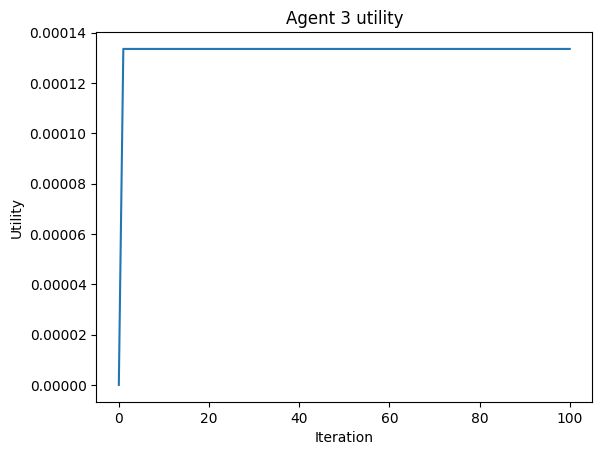
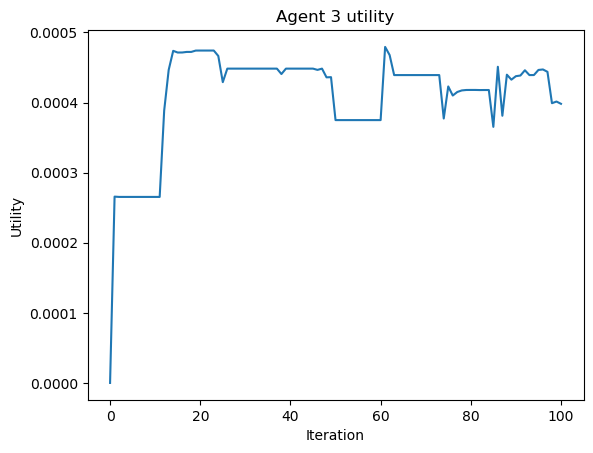
Rearranged code. Updated players' way of choosing strategy (now only opens pool if no better delegation move is found)

Changed region(s): [[0.0, 0.0, 1.0, 0.9272], [0.516, 0.9272, 0.6374, 0.989]]

diff --git a/logic/stakeholder.py b/logic/stakeholder.py
@@ -7,9 +7,9 @@ Created on Fri Jun 11 17:14:45 2021
 
 from mesa import Agent
 
-import helper as hlp
-from pool import Pool
-from strategy import SinglePoolStrategy, MultiPoolStrategy
+import logic.helper as hlp
+from logic.pool import Pool
+from logic.strategy import SinglePoolStrategy, MultiPoolStrategy
 
 UTILITY_THRESHOLD = 0.0001  # note: if the threshold is high then many delegation moves are ignored
 IDLE_STEPS_AFTER_OPENING_POOL = 10
@@ -71,7 +71,7 @@ class Stakeholder(Agent):
         return strategy_changed, new_utility
 
     # todo maybe move to helper (with extra arguments)
-    def should_open_pool(self):
+    def has_potential_for_pool(self):
         saturation_point = self.model.beta
 
         current_pool_owners = [pool.owner for pool in self.model.pools if pool is not None]  # assumes no pool splitting
@@ -96,17 +96,20 @@ class Stakeholder(Agent):
 
         return any(profit < potential_profits[self.unique_id] for profit in potential_profits.values())
 
-    def should_keep_pool(self):
-        pass
-
     # consider an operator AND delegator strategy for EVERYONE, then decide between the 2 and then as usual
     # basically give the chance to everyone to create a pool
     def not_so_random_walk(self):
 
+        self.utility = self.calculate_utility(
+            self.strategy)  # recalculate utility because pool formation may have changed since last calculation
+
+        potential_strategies = {"operator": {"utility": 0, "strategy": None},
+                                "delegator": {"utility": 0, "strategy": None}}
+
         if not self.strategy.is_pool_operator:
             # for players who don't already have pools check if they should open one
 
-            if self.should_open_pool():
+            if self.has_potential_for_pool():
                 # find the most suitable pool params and calculate the potential utility of operating a pool with these params
 
                 # first calculate the potential profits of all players
@@ -126,27 +129,42 @@ class Stakeholder(Agent):
 
                 new_strategy = SinglePoolStrategy(pledge, margin, allocations, is_pool_operator=True) # todo update for pool splitting
                 new_utility = self.calculate_utility(new_strategy)
+
                 if new_utility - self.utility > UTILITY_THRESHOLD:
-                    self.new_strategy = new_strategy
+                    potential_strategies["operator"]["utility"] = new_utility
+                    potential_strategies["operator"]["strategy"] = new_strategy
+                    '''self.new_strategy = new_strategy
                     self.idle_steps_remaining = IDLE_STEPS_AFTER_OPENING_POOL
-                    return True, new_utility #todo calculate utility earlier and only open pool if new utility is higher?
+                    return True, new_utility'''
 
         # if the player doesn't want to open a pool (or already has one), then find a good delegation strategy and calculate its potential utility
         # for now random choice of delegation todo change
         max_steps = 100
         for i in range(max_steps):
             new_strategy = self.strategy.create_random_delegator_strategy(self.model.pools, self.unique_id, self.stake)
-            self.utility = self.calculate_utility(
-                self.strategy)  # recalculate utility because pool formation may have changed since last calculation
             new_utility = self.calculate_utility(new_strategy)
 
             if new_utility - self.utility > UTILITY_THRESHOLD:
-                self.new_strategy = new_strategy
-                return True, new_utility
+                potential_strategies["delegator"]["utility"] = new_utility
+                potential_strategies["delegator"]["strategy"] = new_strategy
+                '''self.new_strategy = new_strategy
+                return True, new_utility'''
 
-        return False, None  # no strategy found that is better than the current one
+        #return False, None  # no strategy found that is better than the current one
 
-        # compare the above with the utility of the current strategy and pick one of the 3 #todo also try that approach
+        # compare the above with the utility of the current strategy and pick one of the 3
+        strategy_changed, utility = False, self.utility
+        if potential_strategies["delegator"]["utility"] > utility:
+            self.new_strategy = potential_strategies["delegator"]["strategy"]
+            strategy_changed = True
+            utility = potential_strategies["delegator"]["utility"]
+        if potential_strategies["operator"]["utility"] > utility:
+            self.new_strategy = potential_strategies["operator"]["strategy"]
+            strategy_changed = True
+            utility = potential_strategies["operator"]["utility"]
+            self.idle_steps_remaining = IDLE_STEPS_AFTER_OPENING_POOL
+        return strategy_changed, utility
+
 
     def get_perfect_strategy(self):
         pass

diff --git a/main.py b/main.py
@@ -1,4 +1,4 @@
-from sim import Simulation
+from logic.sim import Simulation
 
 import matplotlib.pyplot as plt
 import numpy as np
@@ -10,7 +10,7 @@ def main():
 
     sim_df = sim.datacollector.get_model_vars_dataframe()
 
-    figures_dir = "../figures/"
+    figures_dir = "figures/"
 
     pool_nums = sim_df["#Pools"]
     plt.figure()
@@ -20,11 +20,11 @@ def main():
 
     agent_utility = sim.datacollector.get_agent_vars_dataframe()
     #print(agent_utility)
-    end_util = agent_utility.xs(15, level="Step")["Utility"]
+    end_util = agent_utility.xs(2, level="Step")["Utility"]
     plt.figure()
     plt.hist(end_util)
-    plt.title("Step 15 utility")
-    plt.savefig(figures_dir + "utilityStep15.png", bbox_inches='tight')
+    plt.title("Step 2 utility")
+    plt.savefig(figures_dir + "utilityStep2.png", bbox_inches='tight')
 
     one_agent_util = agent_utility.xs(3, level="AgentID")
     plt.figure()

diff --git a/logic/sim.py b/logic/sim.py
@@ -10,10 +10,10 @@ from mesa import Model
 from mesa.datacollection import DataCollector
 from mesa.time import BaseScheduler, SimultaneousActivation, RandomActivation
 
-from stakeholder import Stakeholder
-import helper as hlp
+from logic.stakeholder import Stakeholder
+import logic.helper as hlp
 
-MIN_CONSECUTIVE_IDLE_STEPS_FOR_CONVERGENCE = 5
+MIN_CONSECUTIVE_IDLE_STEPS_FOR_CONVERGENCE = 10
 
 
 def get_number_of_pools(model):

diff --git a/logic/strategy.py b/logic/strategy.py
@@ -6,7 +6,7 @@ Created on Fri Jun 11 17:13:20 2021
 """
 from abc import ABC, abstractmethod
 import random
-import helper as hlp
+import logic.helper as hlp
 
 MAX_POOLS = 10  # max number of pools that a stakeholder can open (when pool splitting is allowed)
 

diff --git a/logic/helper.py b/logic/helper.py
@@ -8,7 +8,7 @@ Created on Sun Jun 13 08:15:26 2021
 import numpy as np
 from numpy.random import default_rng
 
-from pool import Pool
+from logic.pool import Pool
 
 PARETO_ALPHA_PARAM = 1.5
 C_MIN = 0.001
